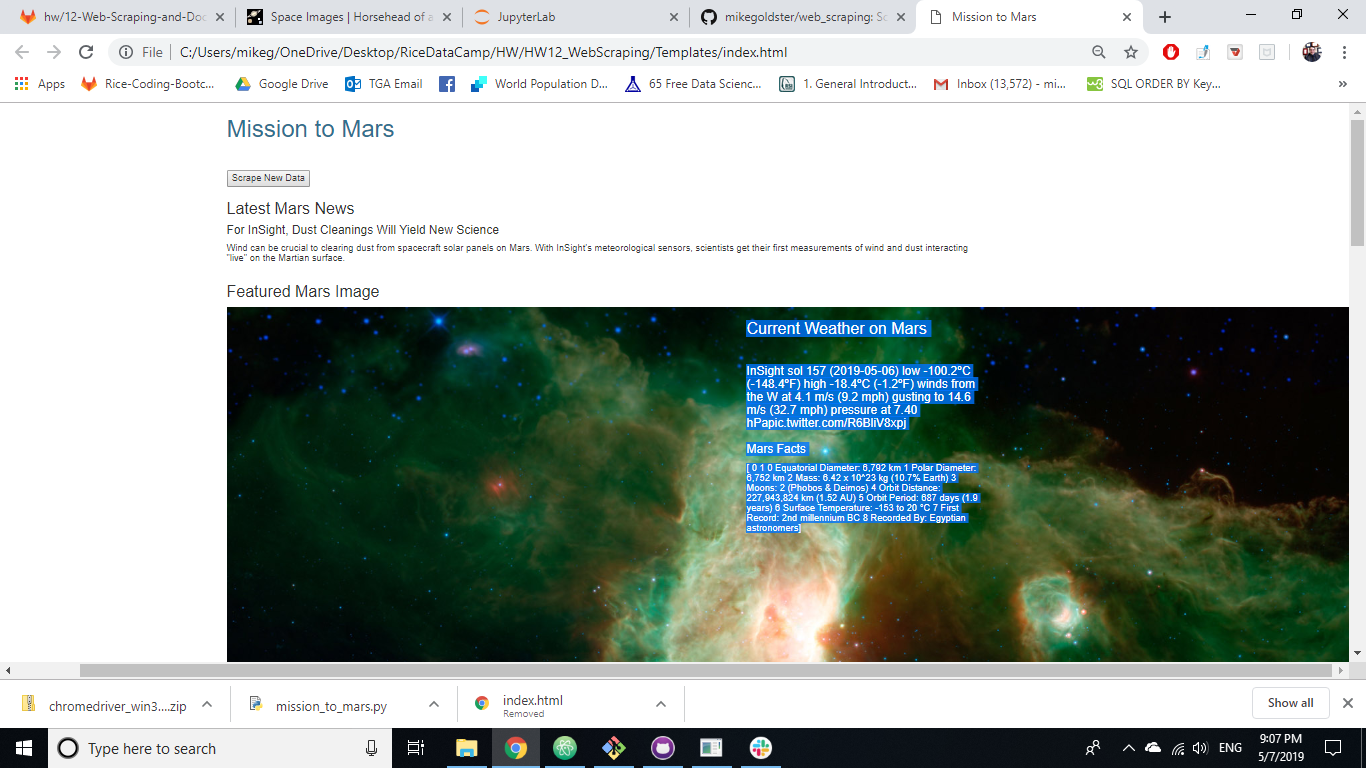
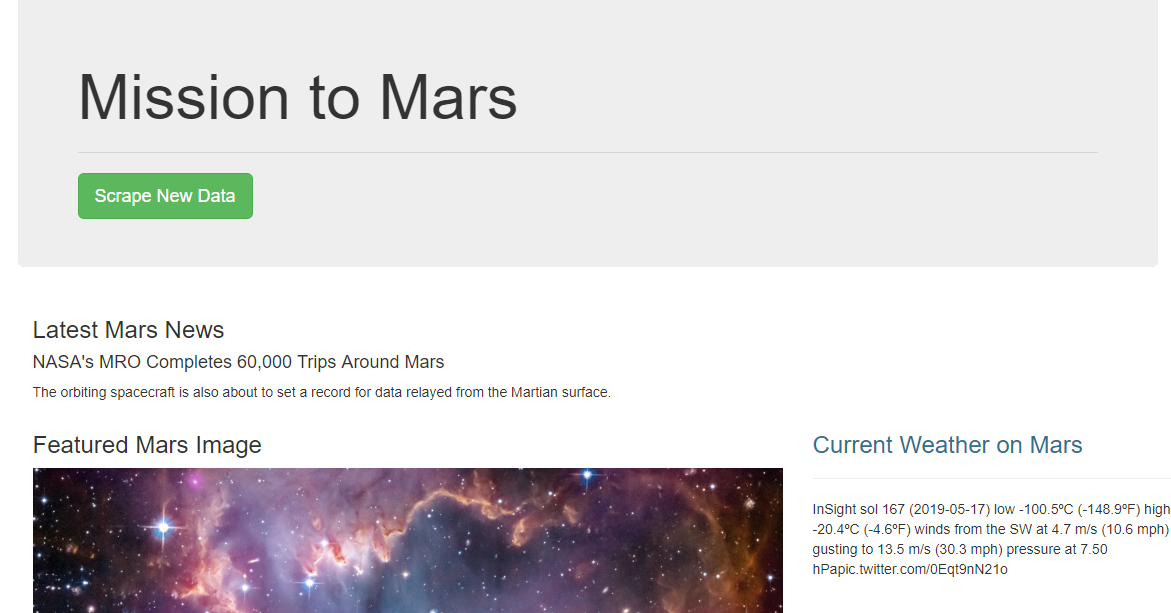
Add files via upload

diff --git a/mission_to_mars.py b/mission_to_mars.py
@@ -3,75 +3,91 @@ from bs4 import BeautifulSoup as bs
 import pandas as pd
 from splinter import Browser
 import time
+import requests
 
 def scrape():
-    executable_path = {'executable_path': 'chromedriver.exe'}
-    browser = Browser('chrome', **executable_path, headless=False)
-    #Empty dictionary to contain the scraped Data
-    mars_info = {}
-    # URL of page to be scraped
-    news_url = 'https://mars.nasa.gov/news/'
-    browser.visit(news_url)
-    html = browser.html
-    # Create BeautifulSoup object; parse with 'html.parser'
-    soup = bs(html, 'html.parser')
-    headlines = soup.find('li', class_='slide')
-    # Find headlines
-    news_title = headlines.find(class_='content_title').text
-    #Find headline paragraph text
-    news_p = headlines.find(class_='article_teaser_body').text
-    browser.quit()
-    #Add to the dictionary
-    mars_info["news_title"] = news_title
-    mars_info["news_p"] = news_p
-    #JPL Image
-    executable_path = {'executable_path': 'chromedriver.exe'}
-    browser = Browser('chrome', **executable_path, headless=False)
-    jpl_url = 'https://www.jpl.nasa.gov/spaceimages/?search=&category=Mars'
-    browser.visit(jpl_url)
-    browser.click_link_by_partial_text('FULL IMAGE')
-    time.sleep(5)
-    browser.click_link_by_partial_text('more info')
-    html = browser.html
-    soup = bs(html, 'html.parser')
-    image_path = soup.find('figure', class_='lede').a['href']
-    featured_image_url = "https://www.jpl.nasa.gov/" + image_path
-    browser.quit()
-    mars_info["featured_image_url"] = featured_image_url
-    #Mars Weather
-    executable_path = {'executable_path': 'chromedriver.exe'}
-    browser = Browser('chrome', **executable_path, headless=False)
-    weather_url = 'https://twitter.com/marswxreport?lang=en'
-    browser.visit(weather_url)
-    html = browser.html
-    soup = bs(html, 'html.parser')
-    weather_tweet = soup.find('p', class_='TweetTextSize TweetTextSize--normal js-tweet-text tweet-text').text
-    browser.quit()
-    mars_info["weather_tweet"] = weather_tweet
-    #Mars Facts
-    factbook_url = 'https://space-facts.com/mars/'
-    facts_table = pd.read_html(factbook_url)
-    mars_info["facts_table"] = facts_table
-    # #Mars Hemispheres
-    # executable_path = {'executable_path': 'chromedriver.exe'}
-    # browser = Browser('chrome', **executable_path, headless=False)
-    # usgs_url = 'https://astrogeology.usgs.gov/search/results?q=hemisphere+enhanced&k1=target&v1=Mars'
-    # browser.visit(usgs_url)
-    # html = browser.html
-    # soup = bs(html, 'html.parser')
-    # hemisphere_image_urls =[]
-    # for item in range (4):
-    #     time.sleep(5)
-    #     images = browser.find_by_tag('h3')
-    #     images[item].click()
-    #     html = browser.html
-    #     soup = bs(html, 'html.parser')
-    #     partial = soup.find("img", class_="wide-image")["src"]
-    #     img_title = soup.find("h2",class_="title").text
-    #     img_url = 'https://astrogeology.usgs.gov'+ partial
-    #     dictionary={"title":img_title,"img_url":img_url}
-    #     hemisphere_image_urls.append(dictionary)
-    #     browser.back()
-    # browser.quit()
-    # mars_info['hemisphere_image_urls'] = hemisphere_image_urls
-    return mars_info
+    try:
+        executable_path = {'executable_path': 'chromedriver.exe'}
+        browser = Browser('chrome', **executable_path, headless=False)
+        #Empty dictionary to contain the scraped Data
+        mars_info = {}
+        # URL of page to be scraped
+        news_url = 'https://mars.nasa.gov/news/'
+        browser.visit(news_url)
+        html = browser.html
+        # Create BeautifulSoup object; parse with 'html.parser'
+        soup = bs(html, 'html.parser')
+        headlines = soup.find('li', class_='slide')
+        # Find headlines
+        news_title = headlines.find(class_='content_title').text
+        #Find headline paragraph text
+        news_p = headlines.find(class_='article_teaser_body').text
+        browser.quit()
+        #Add to the dictionary
+        mars_info["news_title"] = news_title
+        mars_info["news_p"] = news_p
+        #JPL Image
+        executable_path = {'executable_path': 'chromedriver.exe'}
+        browser = Browser('chrome', **executable_path, headless=False)
+        jpl_url = 'https://www.jpl.nasa.gov/spaceimages/?search=&category=Mars'
+        browser.visit(jpl_url)
+        time.sleep(5)
+        html_image = browser.html
+        soup = bs(html_image, 'html.parser')
+        image_path = soup.find('article')['style'].replace('background-image: url(','').replace(');', '')[1:-1]
+        featured_image_url = 'https://www.jpl.nasa.gov' + image_path
+        browser.quit()
+        mars_info["featured_image_url"] = featured_image_url
+        #Mars Weather
+        executable_path = {'executable_path': 'chromedriver.exe'}
+        browser = Browser('chrome', **executable_path, headless=False)
+        weather_url = 'https://twitter.com/marswxreport?lang=en'
+        browser.visit(weather_url)
+        html = browser.html
+        soup = bs(html, 'html.parser')
+        weather_tweet = soup.find('p', class_='TweetTextSize TweetTextSize--normal js-tweet-text tweet-text').text
+        browser.quit()
+        mars_info["weather_tweet"] = weather_tweet
+        #Mars Facts
+        factbook_url = 'https://space-facts.com/mars/'
+        scrape_table = pd.read_html(factbook_url)
+        scrape_table[0]
+        mars_facts_df = scrape_table[0]
+        mars_facts_df.rename(columns={0: 'Fact', 1: "Value"}, inplace=True)
+        mars_facts_df.set_index('Fact')
+        facts_table = mars_facts_df.to_html(index=False)
+        facts_table.replace('\n', '')
+        mars_info["facts_table"] = facts_table
+        #Mars Hemispheres
+        executable_path = {'executable_path': 'chromedriver.exe'}
+        browser = Browser('chrome', **executable_path, headless=False)
+        usgs_url = 'https://astrogeology.usgs.gov/search/results?q=hemisphere+enhanced&k1=target&v1=Mars'
+        browser.visit(usgs_url)
+        html = browser.html
+        soup = bs(html, 'html.parser')
+        hemispheres = soup.find_all('div', class_='item')
+        hemisphere_img_urls =[]
+        for result in hemispheres:
+            try:
+                img_title = result.find('h3').text
+                partial = result.find('a', class_='itemLink product-item')['href']
+                img_url = 'https://astrogeology.usgs.gov'+ partial
+                hemisfind = requests.get(img_url)
+                soup = bs(hemisfind.text, 'html.parser')
+
+                try:
+                    hemis_dl = soup.find('div', class_='downloads')
+                    hemis_href = hemis_dl.find('a')['href']
+                    hemisphere_img_urls.append({'title': img_title, 'img_url': hemis_href})
+
+                except Exception as f:
+                    print('f: ', f)
+
+            except Exception as e:
+                print('e: ', e)
+
+        mars_info['hemisphere_img_urls'] = hemisphere_img_urls
+        return mars_info
+
+    finally:
+        browser.quit()
